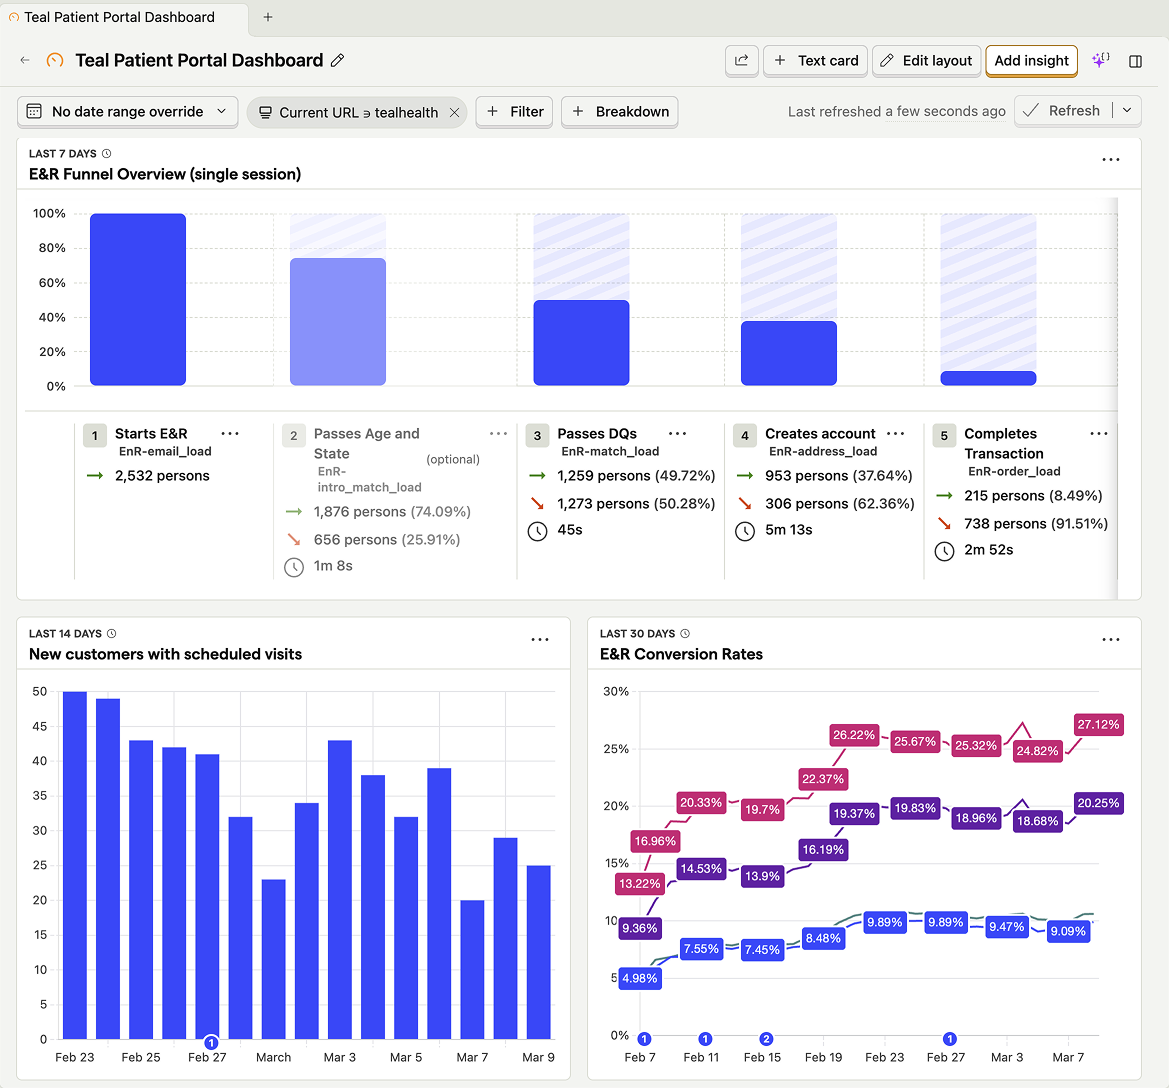
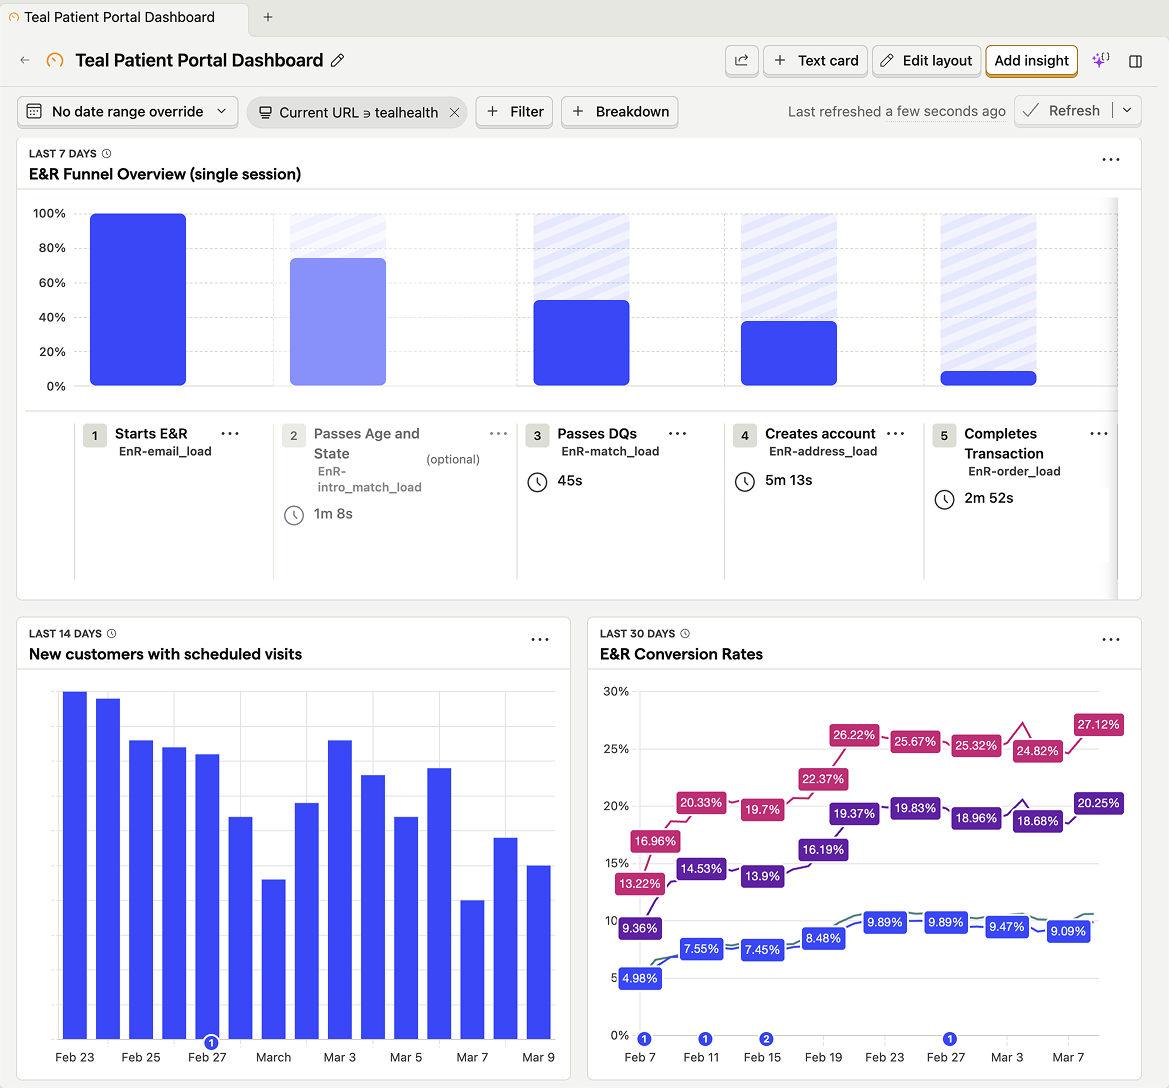
Updated content on other pages

Changed region(s): [[0.4619, 0.4375, 0.9547, 0.5312], [0.2464, 0.4688, 0.4003, 0.5312]]

diff --git a/create/index.html b/create/index.html
@@ -3,34 +3,10 @@
 <head>
   <meta charset="UTF-8">
   <meta name="viewport" content="width=device-width, initial-scale=1.0">
-  <base href="/">
-  <title>Create</title>
-  <link rel="icon" href="assets/img/decorative/faviconFlower.png" type="image/png">
-  <link rel="stylesheet" href="assets/styles.css">
-  <link href="https://fonts.googleapis.com/css2?family=Jost:ital,wght@0,400;0,600;1,400&display=swap" rel="stylesheet">
+  <meta http-equiv="refresh" content="0; url=/">
+  <title>Redirecting...</title>
 </head>
 <body>
-  <div data-component="header"></div>
-  <main class="content-stack">
-    <div data-component="hero" data-icon="growth-graphic.svg" 
-    data-title="Growing products from seed to Seed" 
-    data-body= "In shifting business conditions and complex stakeholders constraints, I leverage user research, iterative collaboration, and right-sized solutions to create high-performance solutions. At Teal Health, as the sole product designer, I created, tested, launched, and iterated on a digital product experience that has brought cervical cancer screening results to thousands of women in all 50 states."></div>
-    <div data-component="subtitle" data-text="Reinventing results delivery"></div>
-    <div data-component="text">
-      <p>I was tasked with designing the user experience of receiving lab results in a virtual healthcare context. I was able to work through discovery, ideation, feedback, refining, hi-fi build, and user feedback to arrive at a solution that matched our use case and exceeded user expectations.</p>
-    </div>
-    <div data-component="image" data-src="results-hifi.png" data-label="The high-fidelity designs incorporated many solutions to serve the intent of various users landing to view their results. These results were tested asynchronously to gather reactions and feedback. We saw users consistently echo our original design intent as they navigated and reviewed their experience, which was a joy to see and share back with the broader team."></div>
-    <div data-component="image" data-src="results-brainstorm.png" data-label="During discovery, I sat down with our Medical practice team to understand what’s the industry standard for results delivery, what challenges providers and patients face, and what labs we needed to design for in our solutioning. Understanding these challenges and constraints early on allowed for a more fruitful idea generation phase."></div>
-    <div data-component="image" data-src="results-wires.png" data-label="Wireframing enabled me to explore ideas quickly, seeing how they fit together on the page. Instead of an unsorted pile of results, we bundle results around the area of concern, allowing us to provide higher level signals for what the results mean. For users who want to dig deeper, they have the ability to reveal additional information about the lab itself, and their specific results."></div>
-    <div data-component="subtitle" data-text="Owning the product journey"></div>
-    <div data-component="text">
-      <p>As a prescription device with a physical world component, the Teal Wand presents a bundle of interesting constraints and challenges. I built a digital experience that guides our users to the end of their screening journey, receiving results and necessary follow-up care. Along the way they have a video visit with a provider, receive their kit in the mail and mail their sample to the lab, and in some cases require an in-person follow-up with a local provider to investigate an abnormal result.</p>
-    </div>
-    <div data-component="image" data-src="qualifiers-desktop.png" data-src-mobile="qualifiers-mobile.png" data-label="In our sign-up flow, we must verify medical eligibility before inviting the user to make an account, aligning with medical and legal stakeholders."></div>
-    <div data-component="image" data-src="reminders.png" data-label="I support the marketing team’s text and email journeys, which remind the user about upcoming steps and encourage them to perform their self-collection. We collaborate cross-functionally to determine the best call-to-actions at each step to support the user’s product experience."></div>
-    <div data-component="image" data-src="product-flows.png" data-label="As we partner with external groups to get more women screened with the Teal Wand, custom product flows are often necessary to meet unique external requirements. I work with our Partnerships team to define these flows and create figjam flows that accelerate decision making, getting early sign off that allows us to quickly bring that flow to production as partner launches."></div>
-  </main>
-  <div data-component="footer"></div>
-  <script src="assets/components.js"></script>
+  <p>Redirecting to <a href="/">home</a>...</p>
 </body>
 </html>

diff --git a/product-journey/index.html b/product-journey/index.html
@@ -1,0 +1,29 @@
+<!DOCTYPE html>
+<html lang="en">
+<head>
+  <meta charset="UTF-8">
+  <meta name="viewport" content="width=device-width, initial-scale=1.0">
+  <base href="/">
+  <title>Teal Wand User Journey | Charlie Mouton</title>
+  <link rel="icon" href="assets/img/decorative/faviconFlower.png" type="image/png">
+  <link rel="stylesheet" href="assets/styles.css">
+  <link href="https://fonts.googleapis.com/css2?family=Jost:ital,wght@0,400;0,600;1,400&display=swap" rel="stylesheet">
+</head>
+<body>
+  <div data-component="header"></div>
+  <main class="content-stack">
+    <div data-component="hero" data-icon="growth-graphic.svg" 
+      data-title="Owning the product journey" 
+      data-body="My time at Teal has presented completely different challenges compared to my consulting work prior.">
+    </div>
+    <div data-component="text">
+      <p>I joined as the sole designer in a pre-launch startup environment. We were designing a multi-touch user journey that includes an asynchronous virtual appointment, a real-world touchpoint plus shipping back the sample. Cervical cancer screening can be confusing and potentially scary, so designing an experience in that context has been challenging but also really rewarding.</p>
+    </div>
+    <div data-component="image" data-src="assets/img/qualifiers-desktop.png" data-src-mobile="qualifiers-mobile.png" data-label="With the Teal Wand being a prescription device, there are specific requirements determined by its FDA guidance and medical best practice of our providers. These constraints shaped our development of a relatively long registration flow that allows users to confirm their eligibility in the process."></div>
+    <div data-component="image" data-src="assets/img/reminders.png" data-label="We know that many of the folks who use Teal have busy lives, and so figuring out the right cadence and messaging via text/emails is so important. We aim to keep them updated and engaged, without feeling like an intrusion to their day to day."></div>
+    <div data-component="image" data-src="assets/img/product-flows.png" data-label="As we have partnered with external groups to get more women screened, specific requirements have needed adjustments to our flows. I work with our Partnerships team to understand these constraints and create Figjam flows that keep projects moving along and ensure all stakeholders are able to sign off on the direction."></div>
+  </main>
+  <div data-component="footer"></div>
+  <script src="assets/components.js"></script>
+</body>
+</html>

diff --git a/results/index.html b/results/index.html
@@ -1,0 +1,31 @@
+<!DOCTYPE html>
+<html lang="en">
+<head>
+  <meta charset="UTF-8">
+  <meta name="viewport" content="width=device-width, initial-scale=1.0">
+  <base href="/">
+  <title>Reinventing Results Delivery | Charlie Mouton</title>
+  <link rel="icon" href="assets/img/decorative/faviconFlower.png" type="image/png">
+  <link rel="stylesheet" href="assets/styles.css">
+  <link href="https://fonts.googleapis.com/css2?family=Jost:ital,wght@0,400;0,600;1,400&display=swap" rel="stylesheet">
+</head>
+<body>
+  <div data-component="header"></div>
+  <main class="content-stack">
+    <div data-component="hero" data-icon="growth-graphic.svg" 
+      data-title="Reinventing results delivery" 
+      data-body="While designing a virtual well-woman experience, we honed in on lab testing as a key need of our providers to serve patients. The delivery of these results can often feel detached from the relationship with the provider, and many experiences I've encountered don't actually provide a lot of context for the numbers you're seeing.">
+    </div>
+    <div data-component="text">
+      <p> </p>
+    </div>
+    <div data-component="image" data-src="assets/img/results-hifi.png" data-label="After creating high-fidelity mockups, I ran unmoderated tests to see users navigate their results and speak to what stood out to them. The feedback was overwhelmingly positive, highlighting the unique approach to delivering results. We saw the goals that we defined early on in the process echoed back to us in the language that these folks used to describe our solution."></div>
+    <div data-component="text">
+      <p>After determining exactly what labs we were going to support, I built a database of content that provides users context for not just what the lab is for, but what their results mean. Additionally, it could be hard to know which labs were related, and the results of a single lab often don't map to a specific condition alone.</p>
+    </div>
+    <div data-component="image" data-src="assets/img/results-wires.png" data-label="Wireframing enabled me to explore ideas quickly. The bundle statuses give users a 'level with me, doc' response very quickly. For those who want to dig deeper, they have the ability to reveal additional information about the lab itself, and what their specific results mean."></div>
+  </main>
+  <div data-component="footer"></div>
+  <script src="assets/components.js"></script>
+</body>
+</html>

diff --git a/analytics/index.html b/analytics/index.html
@@ -1,0 +1,28 @@
+<!DOCTYPE html>
+<html lang="en">
+<head>
+  <meta charset="UTF-8">
+  <meta name="viewport" content="width=device-width, initial-scale=1.0">
+  <base href="/">
+  <title>Product Analytics | Charlie Mouton</title>
+  <link rel="icon" href="assets/img/decorative/faviconFlower.png" type="image/png">
+  <link rel="stylesheet" href="assets/styles.css">
+  <link href="https://fonts.googleapis.com/css2?family=Jost:ital,wght@0,400;0,600;1,400&display=swap" rel="stylesheet">
+</head>
+<body>
+  <div data-component="header"></div>
+  <main class="content-stack">
+    <div data-component="hero" data-icon="assets/img/order-graphic.svg" 
+      data-title="Building an analytics foundation" 
+      data-body="As we brought the Teal Wand to launch, it became clear we needed product analytics tools to measure conversions, observe and address product issues, and roll out updates and features to subsets of users. ">
+    </div>
+    <div data-component="text">
+      <p>I was tasked with identifying and firing up the right tool for the job. PostHog stood out to me for its broad set of features and approachable price to get started. Given our healthcare context, it was especially important to me to maintain the privacy of our users, and we built a system of data management that anonymized each user and the data they entered while still giving us the ability to track multi-touch user journeys.</p>
+    </div>
+    <div data-component="image" data-src="assets/img/data-sheet.png" data-label="I was able to define what events would be most useful for us, along with the properties that give us a more complete picture of the data. O"></div>
+    <div data-component="image" data-src="assets/img/dashboard.png" data-label="Once we started gathering the data, I built insights and dashboards to create windows into product performance for anyone on the team."></div>
+  </main>
+  <div data-component="footer"></div>
+  <script src="assets/components.js"></script>
+</body>
+</html>

diff --git a/assets/styles.css b/assets/styles.css
@@ -85,6 +85,7 @@ h4 {
   font-size: 24px;
   line-height: auto;
   letter-spacing: 0;
+  color: var(--gray-darker);
 }
 
 .text-normal {
@@ -93,6 +94,7 @@ h4 {
   font-size: 18px;
   line-height: auto;
   letter-spacing: 0;
+  color: var(--gray-darker);
 }
 
 .text-small {
@@ -101,6 +103,7 @@ h4 {
   font-size: 16px;
   line-height: auto;
   letter-spacing: 0;
+  color: var(--gray-darker);
 }
 
 #navbar {
@@ -545,12 +548,8 @@ html, body, div, span, object, iframe, h1, h2, h3, h4, h5, h6, p, blockquote, pr
 }
 
 .content-image .image-label {
-  font-family: 'Jost', sans-serif;
-  font-size: 13px;
-  font-weight: 400;
-  line-height: 18px;
   margin: 0 0 40px;
-  color: var(--gray);
+  color: var(--gray-dark);
 }
 
 .content-image .image-label:empty {

diff --git a/components/image.html b/components/image.html
@@ -3,5 +3,5 @@
     <source media="(max-width: 768px)" data-prop="srcMobile">
     <img data-prop="src" src="" alt="">
   </picture>
-  <p class="image-label" data-prop="label"></p>
+  <p class="image-label text-small" data-prop="label"></p>
 </section>
